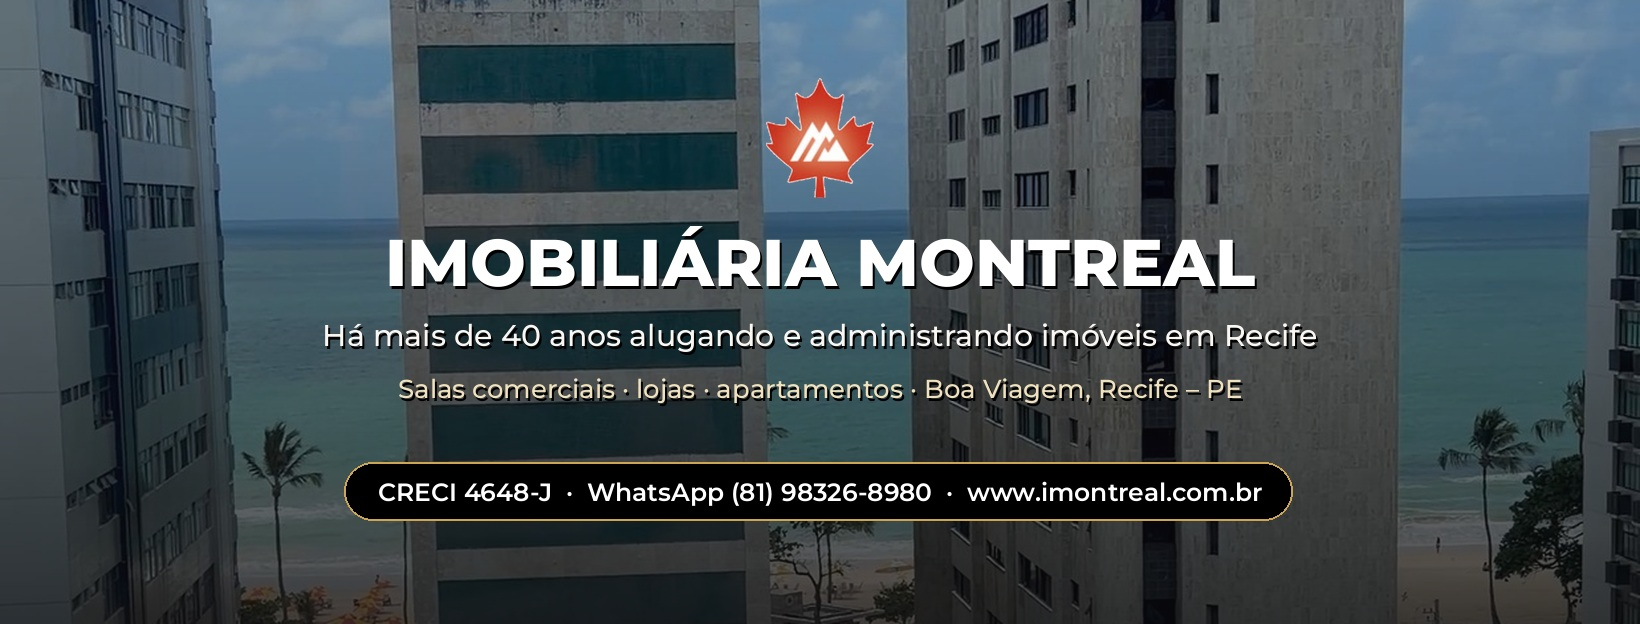
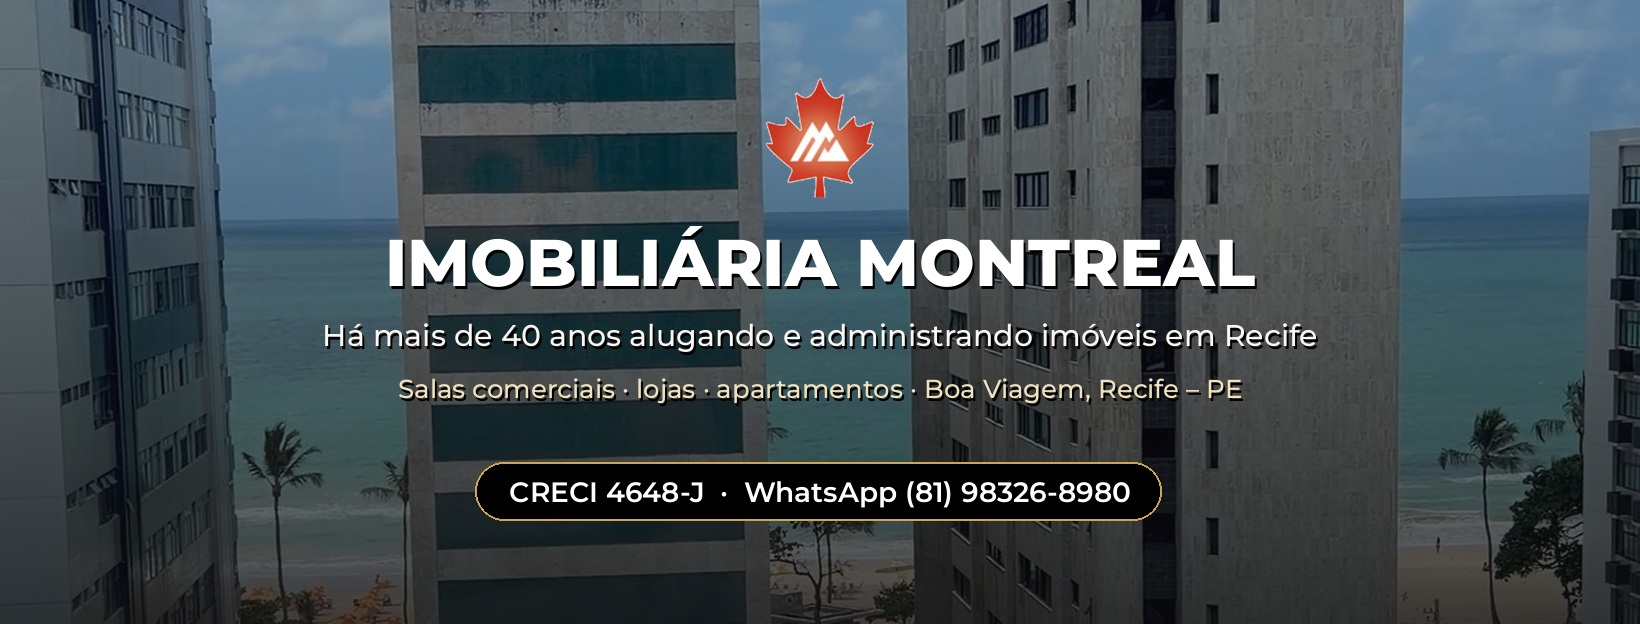
Sala 601: tira o site institucional da landing e da capa do Facebook
Claude-Session: https://claude.ai/code/session_01TiDrzjWmUQGjwQhY5ACXuo

Changed region(s): [[0.1866, 0.7308, 0.8085, 0.8526]]

diff --git a/sala601_index_base44.html b/sala601_index_base44.html
@@ -35,7 +35,7 @@
     "priceCurrency": "BRL",
     "priceSpecification": { "@type": "UnitPriceSpecification", "price": "6000", "priceCurrency": "BRL", "unitText": "mês" },
     "availability": "https://schema.org/InStock",
-    "seller": { "@type": "RealEstateAgent", "name": "Imobiliária Montreal", "telephone": "+55-81-98326-8980", "email": "atendimento@imontreal.com.br", "url": "https://www.imontreal.com.br" }
+    "seller": { "@type": "RealEstateAgent", "name": "Imobiliária Montreal", "telephone": "+55-81-98326-8980", "email": "atendimento@imontreal.com.br", "url": "https://sala601-imobiliaria-montreal.base44.app/sala601/index.html" }
   },
   "mainEntity": {
     "@type": "Accommodation",
@@ -712,7 +712,6 @@
       <a class="line" data-wa href="#" target="_blank" rel="noopener"><svg viewBox="0 0 24 24"><path d="M4 5.5A2.5 2.5 0 0 1 6.5 3h11A2.5 2.5 0 0 1 20 5.5v8a2.5 2.5 0 0 1-2.5 2.5H10l-4.2 3.4c-.5.4-1.3 0-1.3-.7V16.5A2.5 2.5 0 0 1 4 14z"/></svg>WhatsApp (81) 98326-8980</a>
       <a class="line" href="tel:+5581983268980"><svg viewBox="0 0 24 24"><path d="M5 4h4l2 5-2.5 1.5a11 11 0 0 0 5 5L15 13l5 2v4a2 2 0 0 1-2 2A16 16 0 0 1 3 6a2 2 0 0 1 2-2"/></svg>Ligar (81) 98326-8980</a>
       <a class="line" href="mailto:atendimento@imontreal.com.br"><svg viewBox="0 0 24 24"><rect x="3" y="5" width="18" height="14" rx="2"/><path d="m3 7 9 6 9-6"/></svg>atendimento@imontreal.com.br</a>
-      <a class="line" href="https://www.imontreal.com.br" target="_blank" rel="noopener"><svg viewBox="0 0 24 24"><circle cx="12" cy="12" r="9"/><path d="M3 12h18M12 3c3 3 3 15 0 18M12 3c-3 3-3 15 0 18"/></svg>www.imontreal.com.br</a>
       <p class="small muted">Av. Eng. Domingos Ferreira, 4060 · Sala 801 · Empresarial Blue Tower · Boa Viagem, Recife – PE · CRECI 4648-J</p>
     </div>
   </div>
